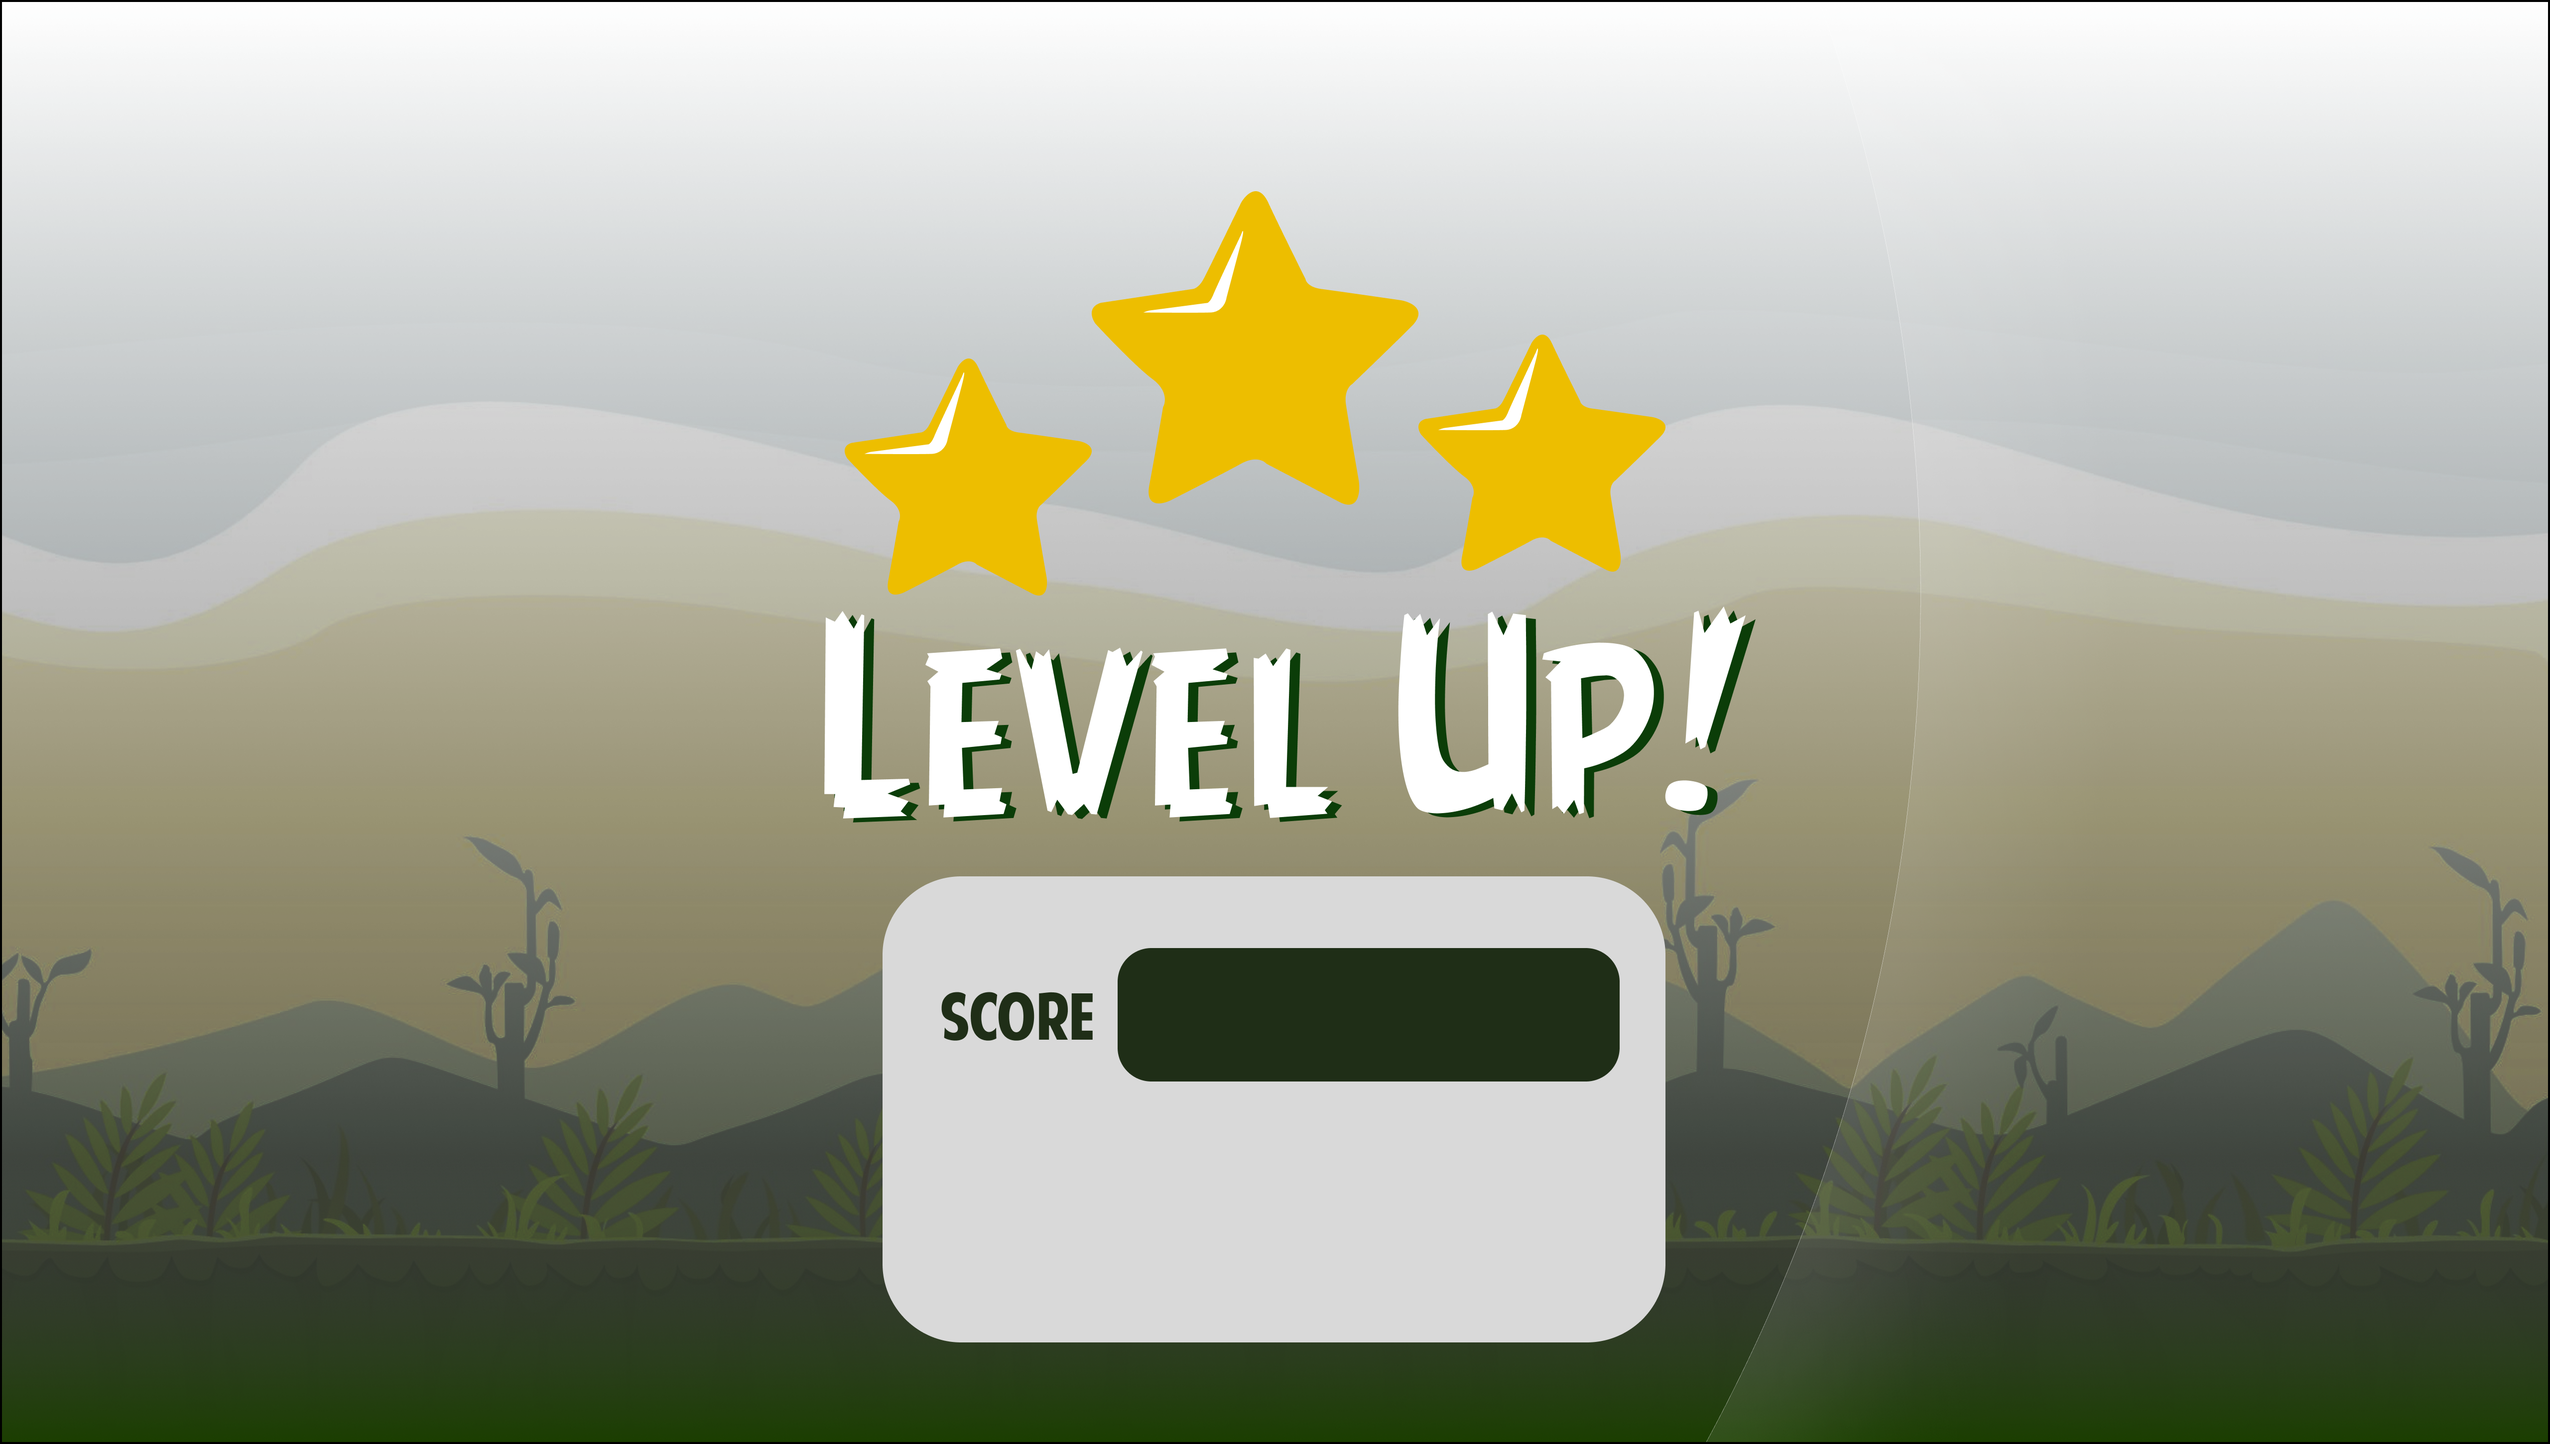
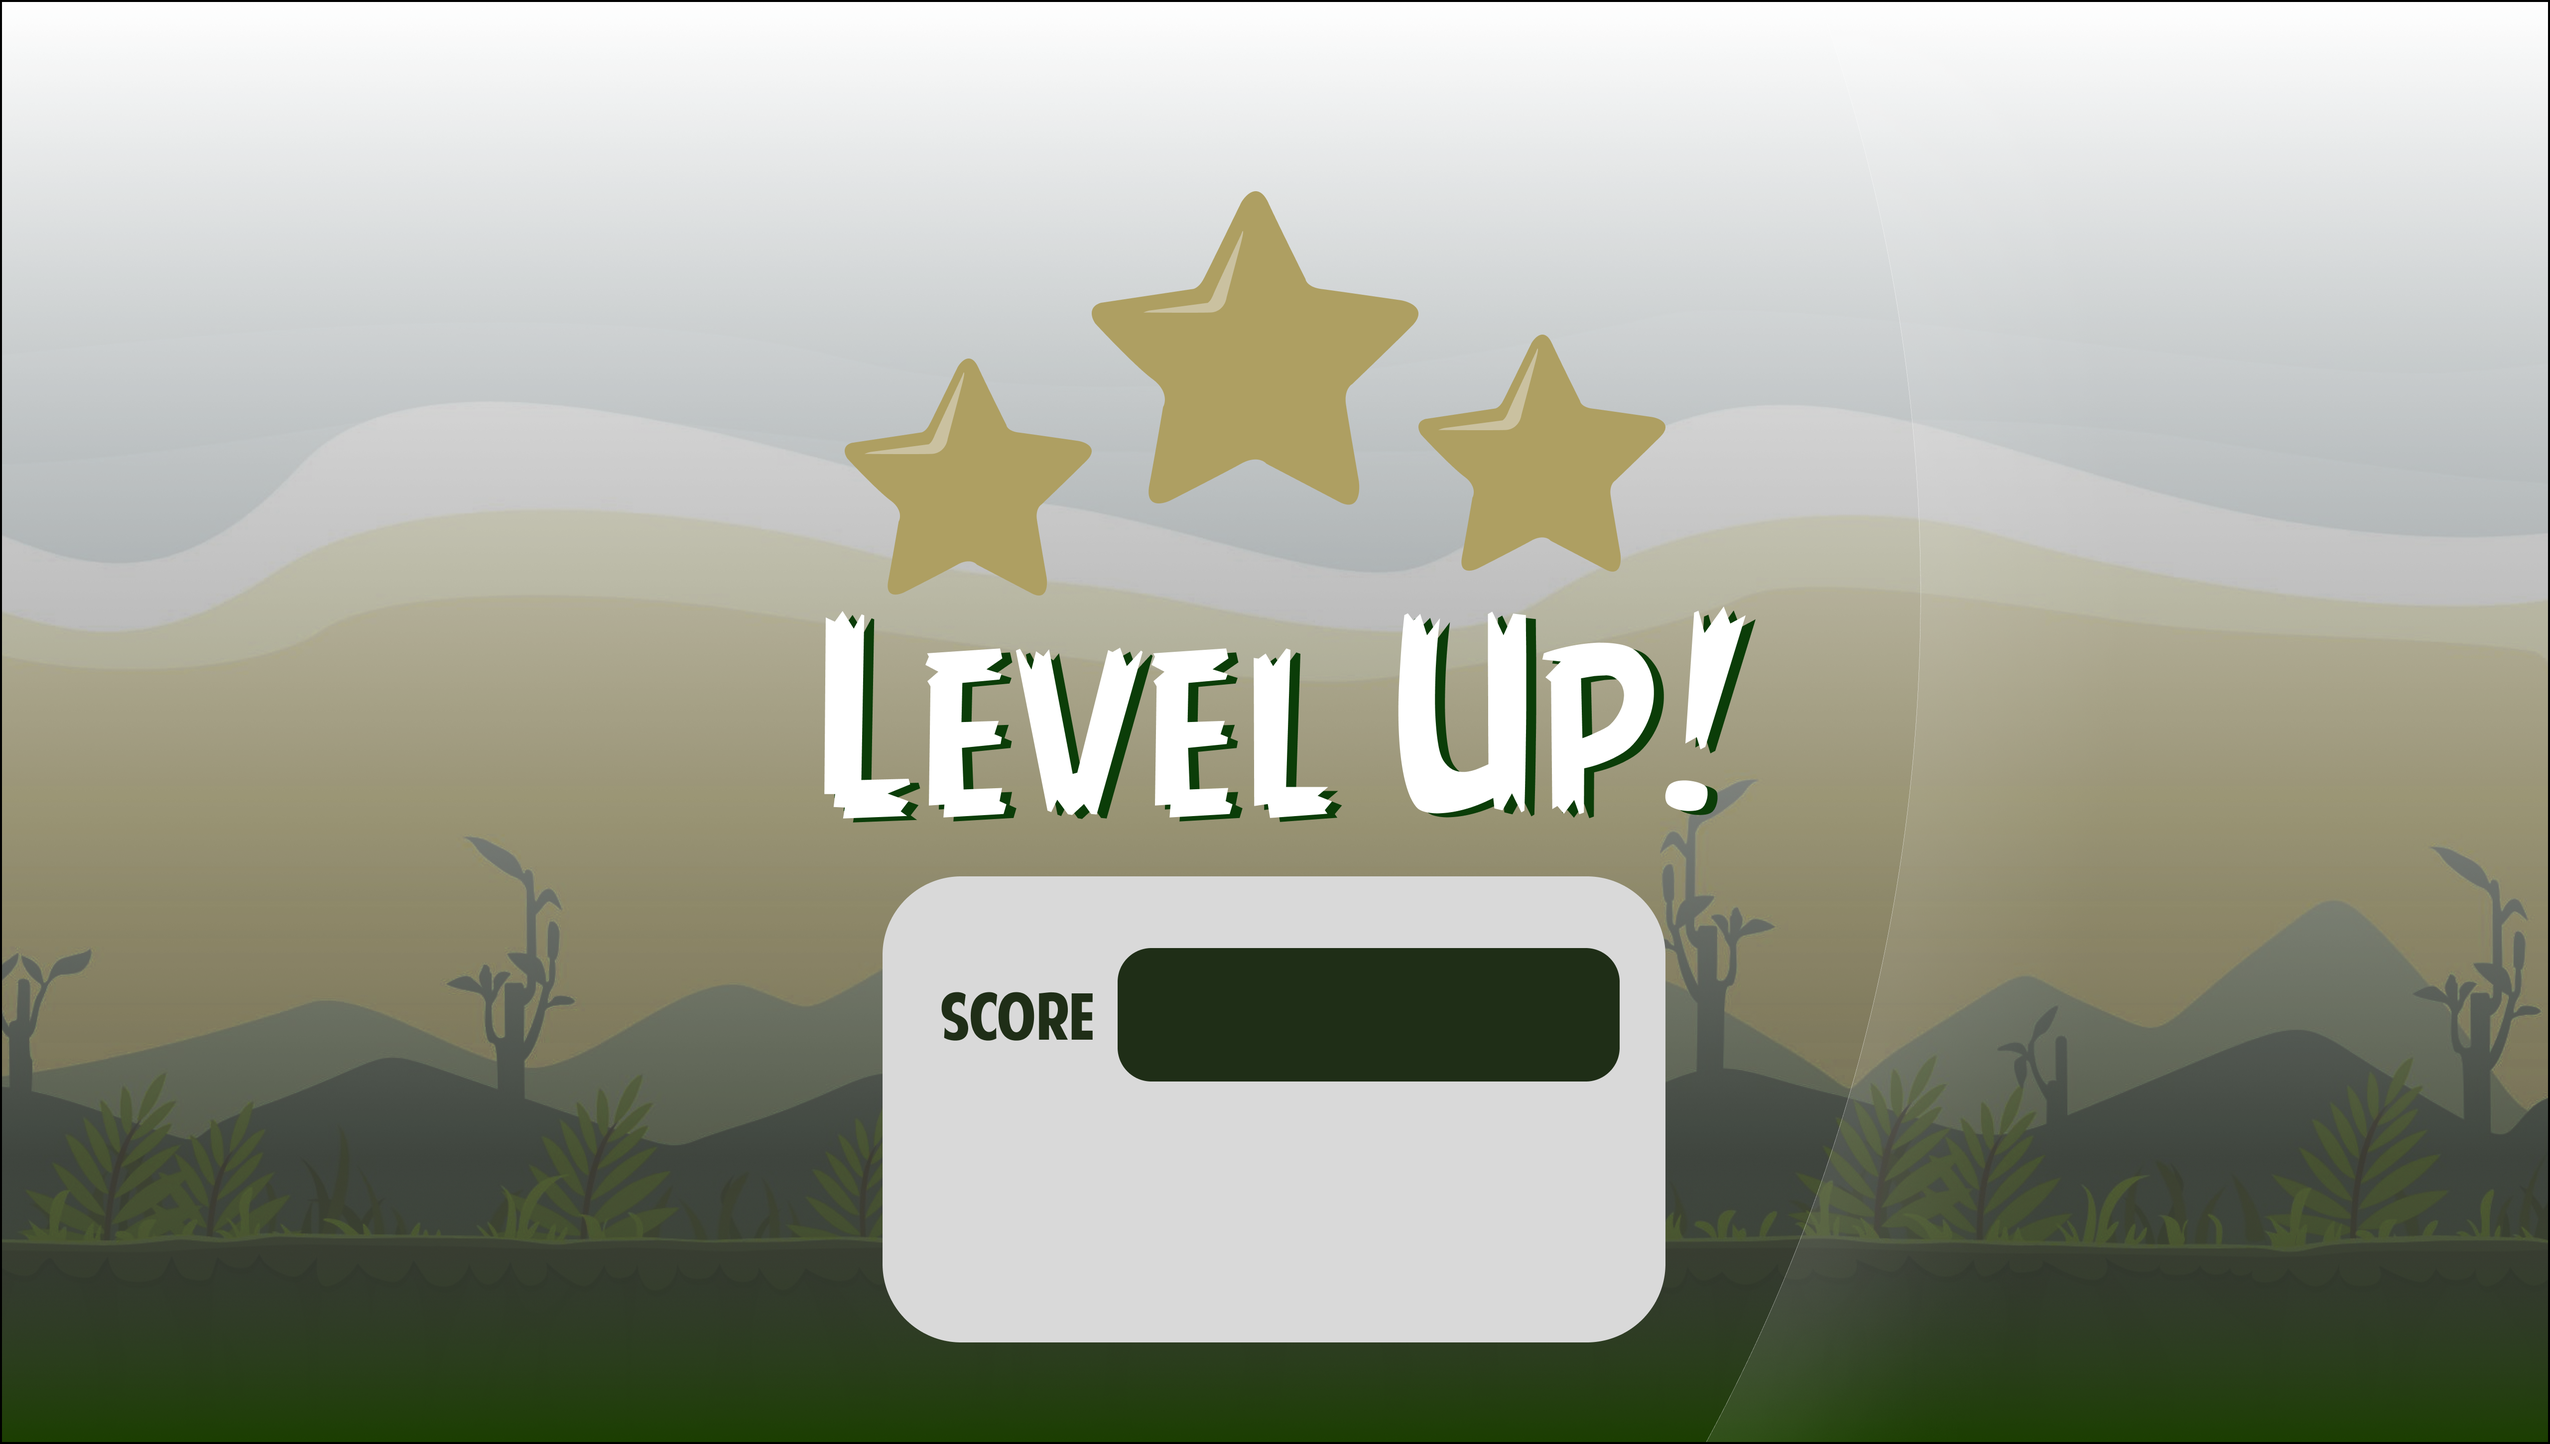
Final Touching...

Changed region(s): [[0.3125, 0.1241, 0.5625, 0.4034], [0.5625, 0.2172, 0.6562, 0.4034]]

diff --git a/core/src/main/java/com/unreal/angrybirds/NormalLevel3.java b/core/src/main/java/com/unreal/angrybirds/NormalLevel3.java
@@ -232,6 +232,11 @@ public boolean allPigDead(){
                 PigList = new ArrayList<Piggy>();
                 PigList.add(new Piggy("Small Piggy",1, null,"assets/FirstPiggy.png",world,"Earth", (int) (918+24/2f), (int) (720-696-24/2f+100),24,24,2000));
                 PigList.add(new Piggy("Small Piggy",1, null,"assets/FirstPiggy.png",world,"Earth", (int) (1015+24/2f), (int) (720-696-24/2f+100),24,24,2000));
+                PigList.add(new Piggy("Helmet Piggy",1, null,"assets/CorpPig.png",world,"Earth", (int) (721+41/2f), (int) (720-541-38/2f+100),41,38,4000));
+                PigList.add(new Piggy("Helmet Piggy",1, null,"assets/CorpPig.png",world,"Earth", (int) (1197+41/2f), (int) (720-541-38/2f+100),41,38,4000));
+                PigList.add(new Piggy("Prof Piggy",1, null,"assets/ProfPig.png",world,"Earth", (int) (857+47/2f), (int) (720-632-47/2f+100),47,47,9000));
+                PigList.add(new Piggy("Small Piggy",1, null,"assets/MushPig.png",world,"Earth", (int) (955+47/2f), (int) (720-638-41/2f+100),47,41,5000));
+                PigList.add(new Piggy("Small Piggy",1, null,"assets/KingPig.png",world,"Earth", (int) (1052+47/2f), (int) (720-622-57/2f+100),47,57,6000));
 //                PigList.add(new Piggy("Second Piggy",3,null,"assets/ProfPig.png",world,"Earth",(int) (1042+47/2f), (int) (720-441-47/2f+100),47,47,10000));
 //                PigList.add(new Piggy("Third Piggy",7,null,"assets/KingPig.png",world,"Earth",(int) (1038+47/2f), (int) (720-537-47/2f+100),47,57,20000));
 ////                PigList.add(new Piggy("Fourth Piggy",4,null,"assets/CorpPig.png",world,"Earth",(int) (939+47/2f), (int) (720-615-47/2f),47,43,9000));
@@ -257,8 +262,13 @@ public boolean allPigDead(){
                 blockList.add(new Block("Glass", "assets/GlassWindow.png", 79, 79,world, 3, 1128 + 79f/2, 720-641-79f/2+100,0,100));
                 blockList.add(new Block("Wood", "assets/WoodBrick.png", 80, 40, world, 10, 751+40,720-601-20+100, 0, 100*2));
                 blockList.add(new Block("Wood", "assets/WoodBrick.png", 80, 40, world, 10, 1126+40,720-601-20+100, 0, 100*2));
-
-
+                blockList.add(new Block("Stone", "assets/StoneLongVer.png", 194, 22, world, 10, 723 + 194f/2f, 720-579-11+100, 0, 100*5));
+                blockList.add(new Block("Stone", "assets/StoneLongVer.png", 194, 22, world, 10, 1039 + 194f/2f, 720-579-11+100, 0, 100*5));
+                blockList.add(new Block("Wood","assets/WoodHTriangle.png", 80, 80, world, 10f, 765+40, 720-499-40+100, 0, 50*2).setShape(new Vector2[]{new Vector2(0, 40f),new Vector2(40, -40),new Vector2(-40, -40f)}));
+                blockList.add(new Block("Wood","assets/WoodHTriangle.png", 80, 80, world, 10f, 1113+40, 720-499-40+100, 0, 50*2).setShape(new Vector2[]{new Vector2(0, 40f),new Vector2(40, -40),new Vector2(-40, -40f)}));
+                blockList.add(new Block("Stone", "assets/StoneLongVer.png", 97, 11, world, 6f, 930+97/2f, 720-679-11/2f +100, 0, 80*5));
+                blockList.add(new Block("Glass", "assets/GlassLongVer.png", 97, 11, world, 6f, 833+97/2f, 720-679-11/2f +100, 0, 80));
+                blockList.add(new Block("Wood", "assets/WoodLongVer.png", 97, 11, world, 6f, 1027+97/2f, 720-679-11/2f +100, 0, 80*2));
 //                blockList.add(new Block("Stone","assets/StoneLongVer.png", 194, 22, world, 10f, 866+194/2f, 720-662-22/2f+100, 0, 200*5));
 //                blockList.add(new Block("Stone","assets/StoneLongVer.png", 194, 22, world, 10f, 1059+194/2f, 720-662-22/2f+100, 0, 200*5));
 //                blockList.add(new Block("Wood","assets/WoodSmallHor.png", 21, 40, world, 4f, 927+21/2f, 720-625-40/2f+100, 0, 150));
@@ -282,6 +292,7 @@ public boolean allPigDead(){
 //            world.setGravity(new Vector2(0, 0f));
         }
         world.setGravity(new Vector2(0, -9.81f));
+
         if (isSerialized) {
             if (SpaceBird != null) SpaceBird.processSerialization(null, world);
             assert PigList != null;
@@ -608,7 +619,7 @@ public boolean allPigDead(){
             player.pigsDead= deadPiggyList.size();
             Game.removeFile("NormalLevel3");
 //            Game.removeFile("NeptuneLevelScore");
-            Game.setScreen(new NormalLevelEnd(Game,player,"Level3"));
+            Game.setScreen(new NormalLevelEnd(Game,player,"level3"));
 //            dispose();
         }
 

diff --git a/core/src/main/java/com/unreal/angrybirds/NormalLevelEnd.java b/core/src/main/java/com/unreal/angrybirds/NormalLevelEnd.java
@@ -28,7 +28,9 @@ public class NormalLevelEnd  implements Screen {
     private Player player;
     BitmapFont Scorefont;
     private String Level;
-
+    private Sprite star1;
+    private Sprite star2;
+    private Sprite star3;
 //    public NormalLevelEnd(Main Game) {
 //        this.Game = Game;
 //    }
@@ -65,9 +67,13 @@ public class NormalLevelEnd  implements Screen {
         camera.position.set(Gdx.graphics.getWidth() / 2, Gdx.graphics.getHeight() / 2, 0); // Set camera position to center
         camera.update();
         String path;
-        if(player.hasWin()){
-            path = "NormalLevelUp.png";
-        }else{
+        if(player.calculateStar() == 3){
+            path = "NormalLevelUp3.png";
+        }else if (player.calculateStar() == 2){
+            path = "NormalLevelUp2.png";
+        }else if (player.calculateStar() == 1){
+            path = "NormalLevelUp1.png";
+        }else {
             path = "NormalLevelNotUp.png";
         }
         sprite = new Sprite(new Texture(path));
@@ -122,7 +128,6 @@ public class NormalLevelEnd  implements Screen {
         GlyphLayout ScoreLayout = new GlyphLayout(Scorefont,""+String.format("%08d", player.getScore()));
         Scorefont.draw(batch,ScoreLayout,574,780-485-62);
         batch.end();
-
         stage.act(delta);
         stage.draw();
     }

diff --git a/core/src/main/java/com/unreal/angrybirds/SpaceLevelEnd.java b/core/src/main/java/com/unreal/angrybirds/SpaceLevelEnd.java
@@ -54,10 +54,16 @@ public class SpaceLevelEnd  implements Screen {
         camera = new OrthographicCamera(Gdx.graphics.getWidth(), Gdx.graphics.getHeight());
         camera.position.set(Gdx.graphics.getWidth() / 2, Gdx.graphics.getHeight() / 2, 0); // Set camera position to center
         camera.update();
-        String path;
-        if(player.hasWin()){
+        String path = "";
+        if(!player.hasWin()){
+            path = "SpaceNotLevelUp.png";
+        }else if (player.calculateStar() == 3){
             path = "SpaceLevelUp3.png";
-        }else{
+        }else if (player.calculateStar() == 2){
+            path = "SpaceLevelUp2.png";
+        }else if (player.calculateStar() == 1){
+            path = "SpaceLevelUp1.png";
+        }else if (player.calculateStar() == 0){
             path = "SpaceNotLevelUp.png";
         }
         sprite = new Sprite(new Texture(path));

diff --git a/core/src/main/java/com/unreal/angrybirds/Player.java b/core/src/main/java/com/unreal/angrybirds/Player.java
@@ -23,7 +23,6 @@ public class Player implements Serializable {
         this.winScore = allSumPig;
     }
     public boolean hasWin(){
-        System.out.println(initialPigs + "==" + pigsDead);
         return initialPigs == pigsDead && pigsDead != 0;
     }
     public void setMaxScore(int allSum){
